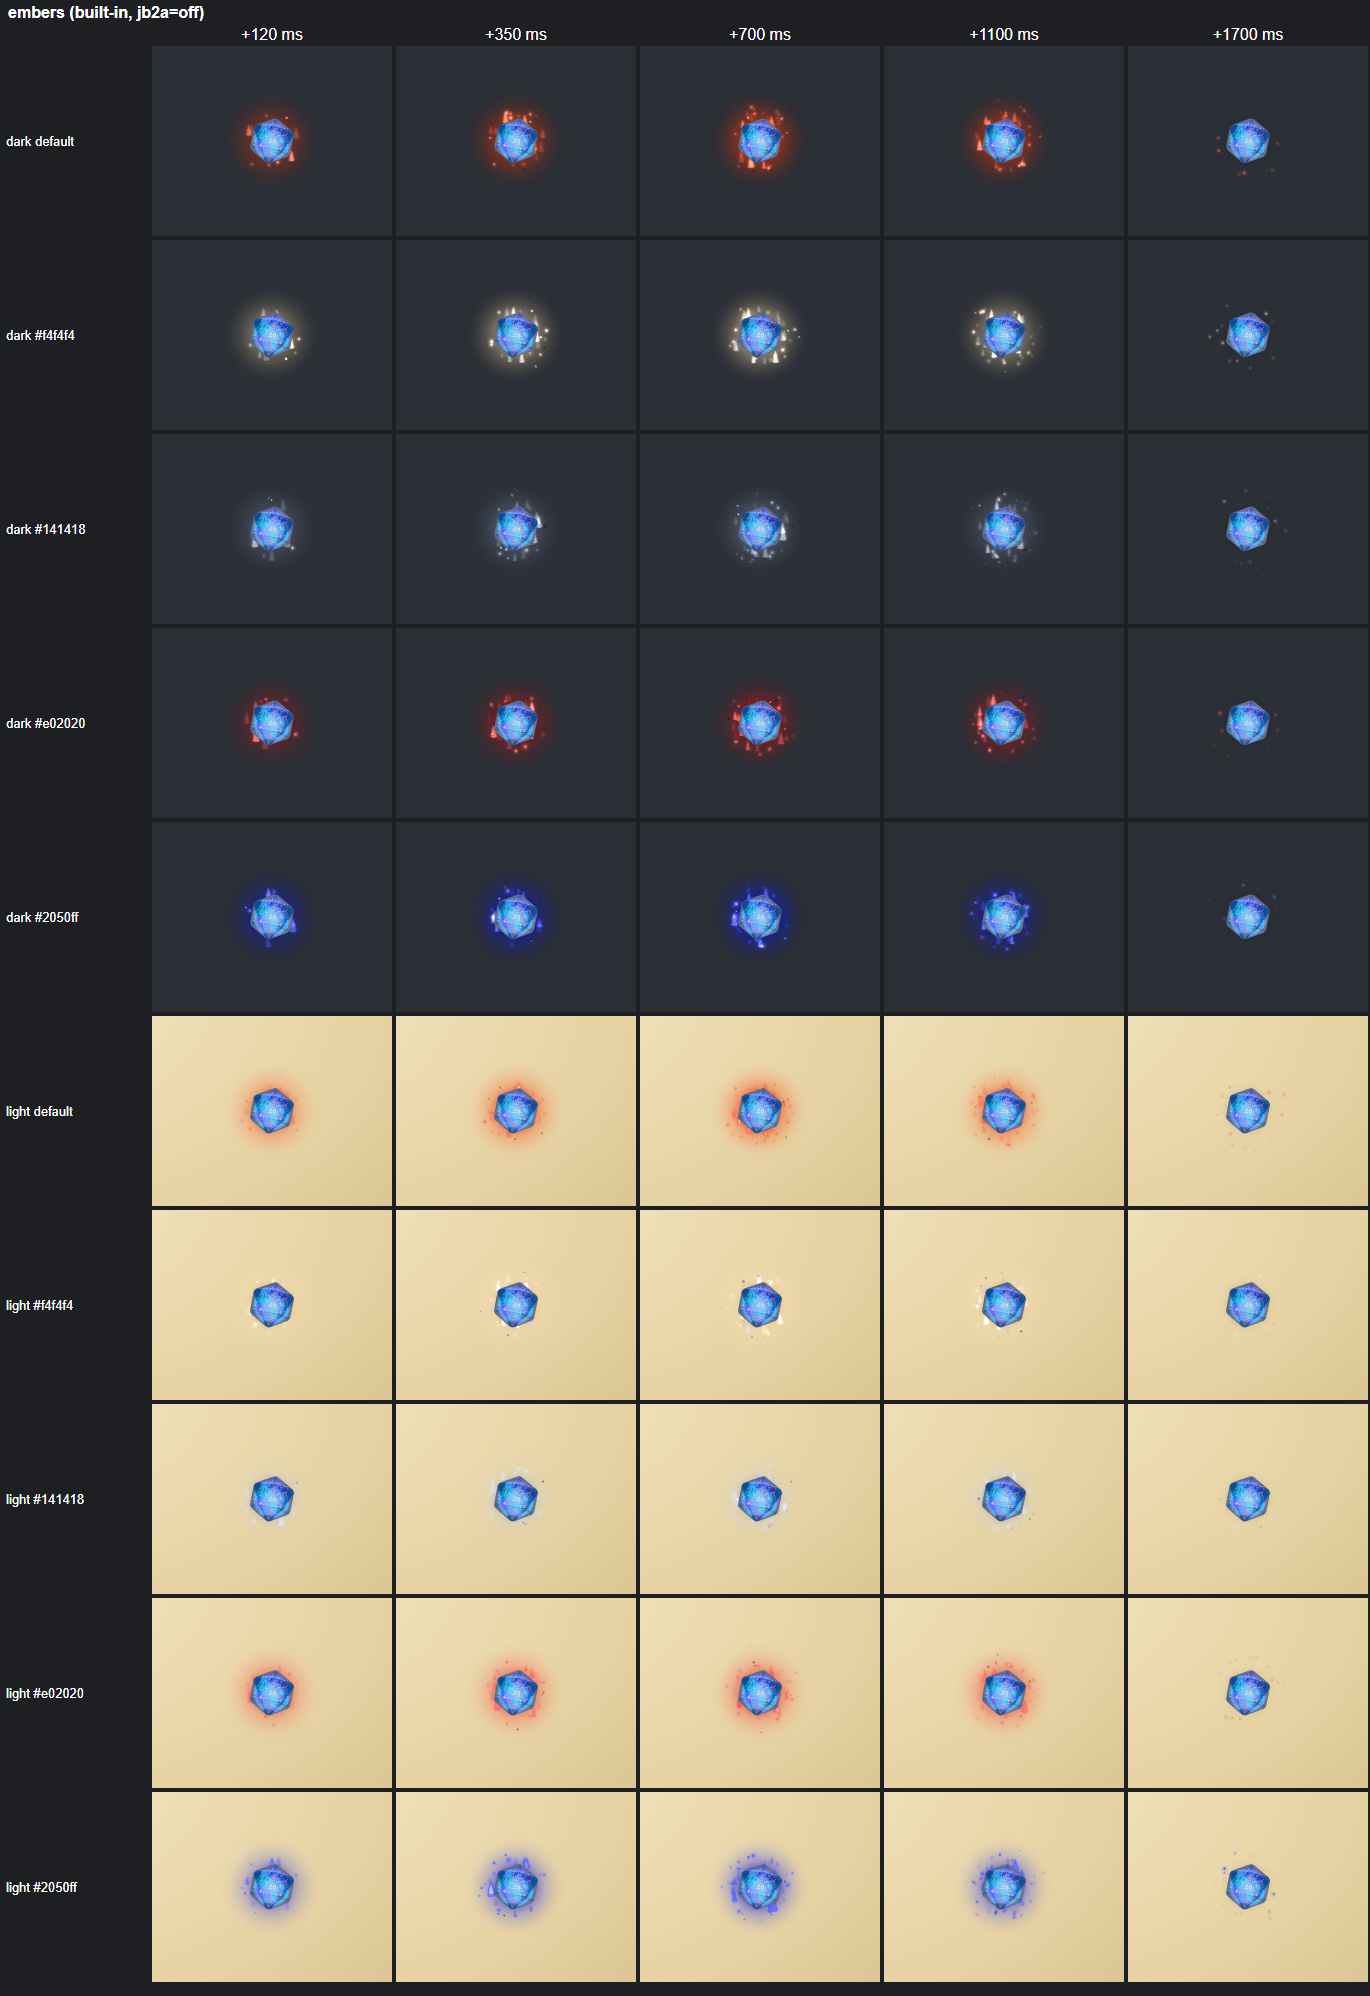
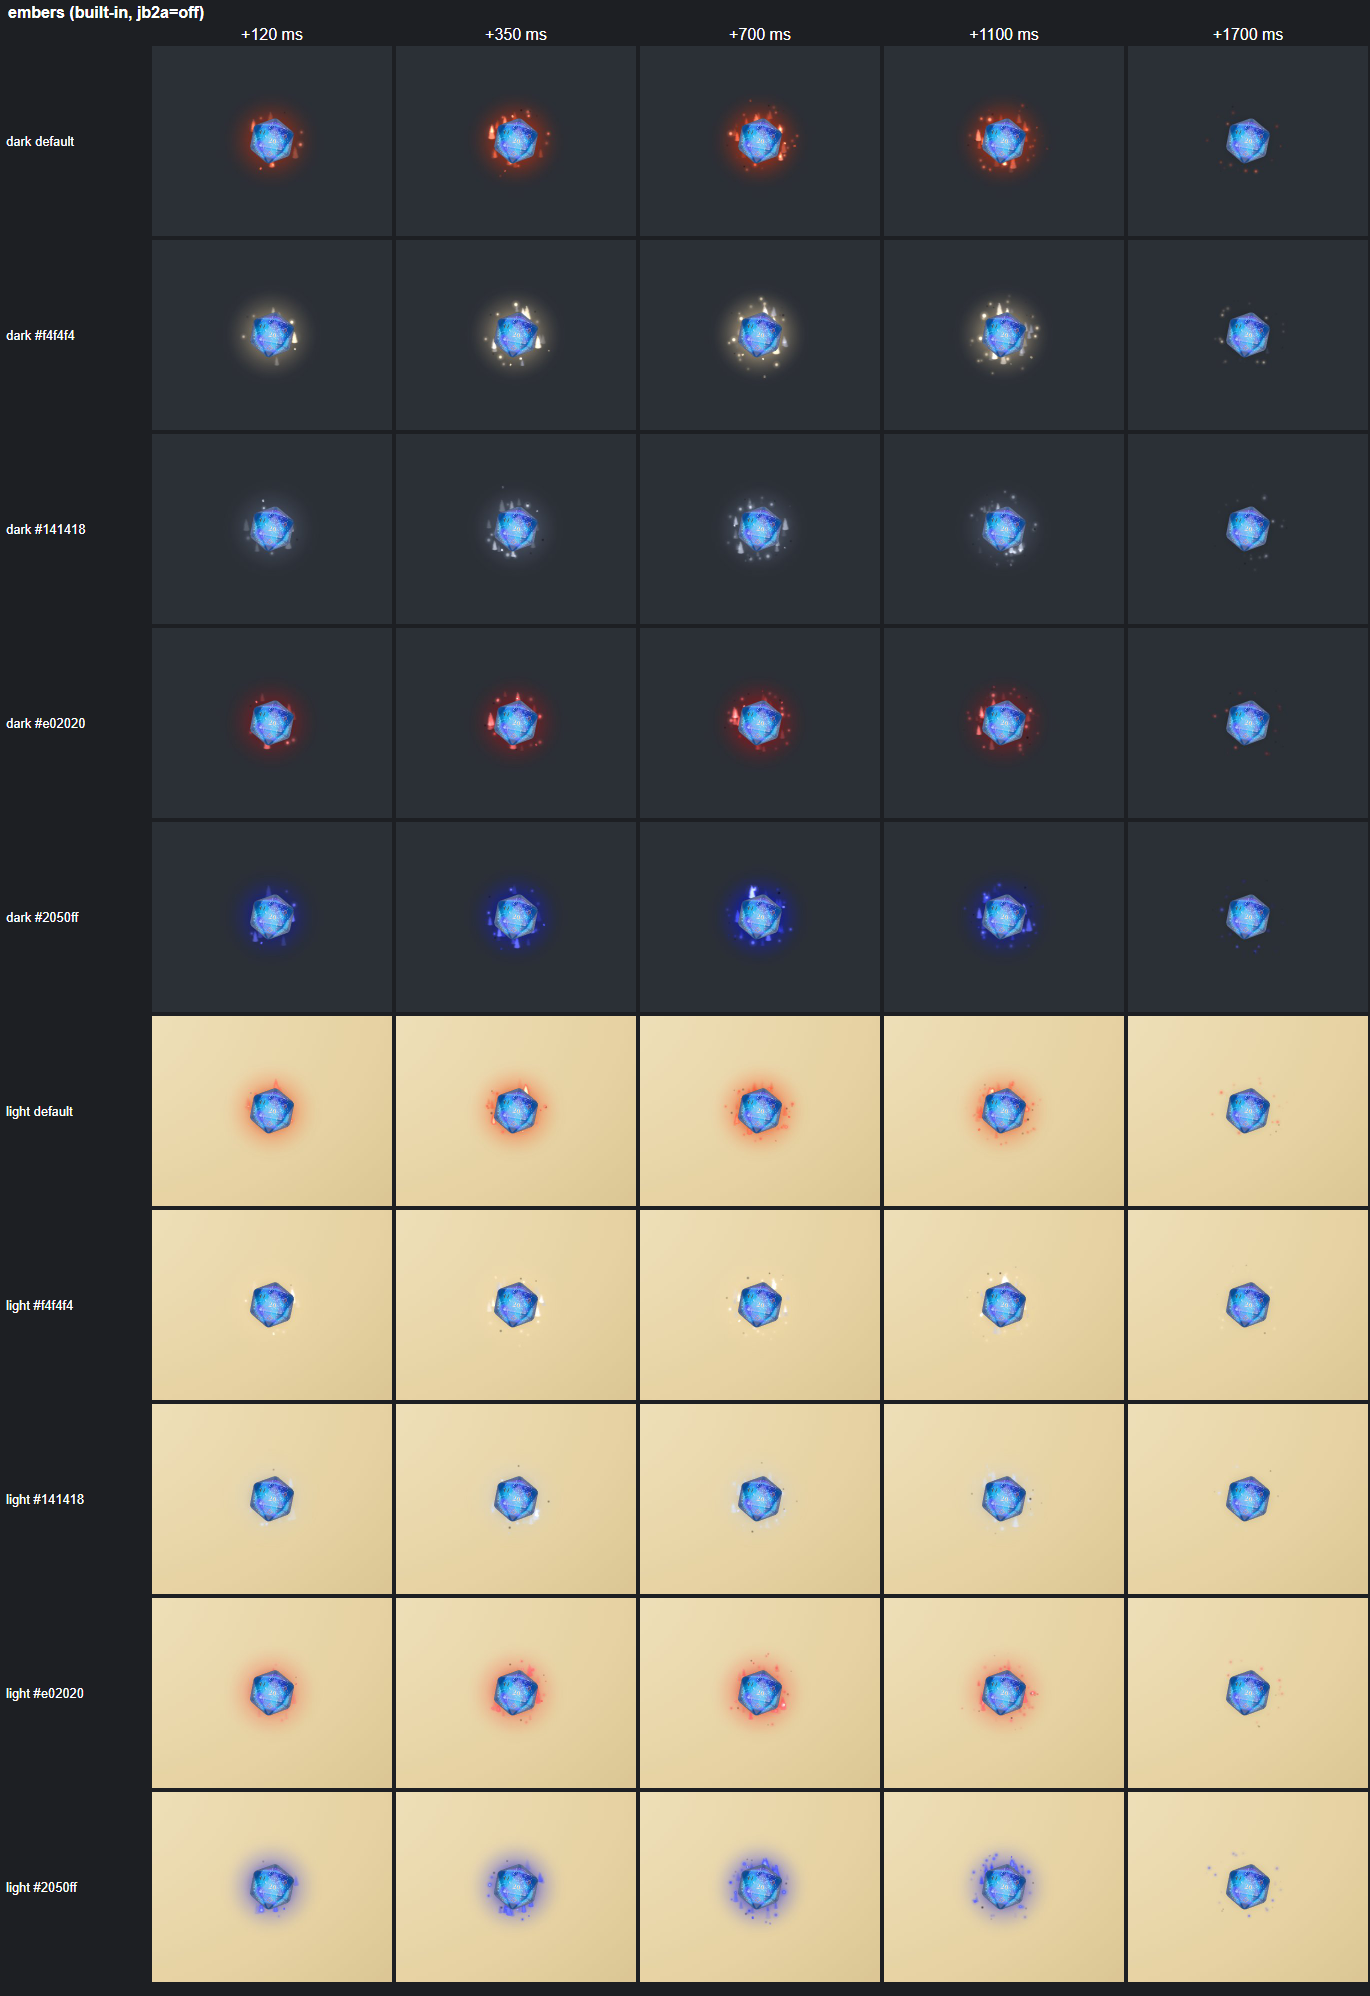
fix(fx): size sparkles and embers to the die; give sparkles presence
dieRadius(ctx) reads the die mesh's bounding sphere x world scale (0.95,
a d20, when there is none). Embers' rings, cinders and floor glow and
sparkles' birth height and orbit scale with it, so a small die is hugged
and a big one is not covered.

Sparkles leads with a burst on the first frame, has more glints living
longer, and larger deep-shade flecks for light maps. spiral and
ringTrickle share one oneByOne emitter; the EMBER sway gate is commented.

diff --git a/src/effects/library/catalogue.js b/src/effects/library/catalogue.js
@@ -21,9 +21,6 @@ const DIE_Y = 0.5; // a landed die's centre
 // Just above a landed die's top face. The camera looks straight down, so particles born lower
 // stay hidden under the (opaque) die until they have flown out past its footprint.
 const DIE_TOP = 1.05;
-// A landed d20 (the crit die; edge 1, so about 1.9 across): seen from above, anything within
-// D20_R of its centre is under it.
-const D20_R = 0.95;
 const clamp01 = (v) => Math.min(1, Math.max(0, v));
 const easeOut = (t) => 1 - (1 - t) * (1 - t);
 
@@ -326,6 +323,36 @@ function ringUniforms(color, { edge = 0.018, noise = 0.6, trail = 0.5, band = 1 
   };
 }
 
+// A die's bounding radius when its mesh is unknown (tests, headless): a landed d20 (edge 1, the
+// usual crit die, about 1.9 across).
+const DEFAULT_DIE_R = 0.95;
+const dieScale = new THREE.Vector3(); // reused: dieRadius allocates nothing
+
+/**
+ * The die's bounding-sphere radius in world units (its mesh's geometry radius x its largest world
+ * scale): seen from above, anything closer to its centre than this may be under it. Reads
+ * ctx.die.inner (the rotated die mesh), else the first mesh under ctx.die.outer; falls back to
+ * DEFAULT_DIE_R when there is none.
+ */
+function dieRadius(ctx) {
+  const die = ctx.die;
+  let mesh = die?.inner?.isMesh ? die.inner : null;
+  if (!mesh) {
+    die?.outer?.traverse?.((o) => {
+      if (!mesh && o.isMesh && o.geometry) mesh = o;
+    });
+  }
+  const geometry = mesh?.geometry;
+  if (!geometry) return DEFAULT_DIE_R;
+  if (!geometry.boundingSphere) geometry.computeBoundingSphere?.();
+  const r = geometry.boundingSphere?.radius;
+  if (!(r > 0)) return DEFAULT_DIE_R;
+  mesh.updateWorldMatrix?.(true, false);
+  mesh.getWorldScale(dieScale);
+  const R = r * Math.max(Math.abs(dieScale.x), Math.abs(dieScale.y), Math.abs(dieScale.z));
+  return Number.isFinite(R) && R > 0 ? R : DEFAULT_DIE_R;
+}
+
 /**
  * An additive radial glow decal on the table: colour ctx.color, brightness peak x intensity,
  * eased in over 60 ms, then shaped by `curve(elapsed)` (0..1; default: a quadratic fade-out over
@@ -524,42 +551,62 @@ export const shockwave = Object.freeze({
   },
 });
 
+/**
+ * Emits `total` particles over the first `window` (0..1) of the duration, one emit each:
+ * `lead` (0..1) of them at once on the first update, the rest evenly after. `one(now)` emits one.
+ */
+function oneByOne(ctx, total, window, one, lead = 0) {
+  let emitted = 0;
+  return (e, now) => {
+    if (!ctx.particles) return;
+    const share = lead + (1 - lead) * clamp01(e / Math.max(1, ctx.duration * window));
+    const want = Math.round(total * share);
+    for (; emitted < want; emitted++) one(now);
+  };
+}
+
 export const sparkles = Object.freeze({
   id: 'sparkles',
   cost: 2,
   defaults: Object.freeze({ color: '#ffe27a', intensity: 1, duration: 1400 }),
   /**
-   * Haloed four-point glints (the SPARK sprite) bursting out of the die's sides and spiralling up around
-   * it (KIND.SPIRAL turns each one about the die's axis; a strong drag holds them in an orbit just
-   * outside the die while buoyancy lifts them), twinkling as they burn out from the die colour
-   * through palette().core to white (core is the colour 60% of the way to white, so a straight
-   * colour -> white fade passes through it). A few deep-shade glints (normal blend) ride along so
-   * the effect reads on a light map. All are born inside the die, so its face stays clear.
+   * Haloed four-point glints (the SPARK sprite) bursting out of the die's sides and spiralling up
+   * around it (KIND.SPIRAL turns each one about the die's axis; a strong drag holds them in an
+   * orbit ~1.4 die radii out while buoyancy lifts them), twinkling as they burn out from the die
+   * colour through palette().core to white (core is the colour 60% of the way to white, so a
+   * straight colour -> white fade passes through it). A burst of them leads on the first frame,
+   * the rest follow over most of the duration. Deep-shade glints (normal blend) ride along so the
+   * effect reads on a light map. All are born inside the die, so its face stays clear.
    */
   start(ctx) {
     if (!ctx.particles) return NOOP;
     const k = sizeK(ctx);
+    const R = dieRadius(ctx);
     const pal = palette(ctx.color);
     const body = pal.rim ?? pal.mid; // the die colour, or a near-black die's lit rim
     // A deep shade for a light map (x 0.1 in linear light: about a third of the colour in sRGB).
     const cinder = pal.rim ? pal.core.clone() : body.clone().multiplyScalar(0.1);
     const { x: cx, z: cz } = ctx.position;
-    // Born inside the die: each one shows as it bursts out past the die's side, never over its face.
-    const BORN = DIE_Y + 0.4;
-    const spiral = (total, window, { y, ...spec }) => {
-      let emitted = 0;
-      return (e, now) => {
-        const want = Math.round(total * clamp01(e / Math.max(1, ctx.duration * window)));
-        for (; emitted < want; emitted++) {
+    // Born inside the die (a little above its centre): each one shows as it bursts out past the
+    // die's side, never over its face.
+    const y = (ctx.position.y || DIE_Y) + 0.3 * R;
+    // speed / drag is the orbit radius: ~1.4 R (1..1.8 R), cleared within ~100 ms.
+    const speed = 17 * R;
+    const spiral = (total, window, lead, spec) =>
+      oneByOne(
+        ctx,
+        total,
+        window,
+        (now) => {
           const a = Math.random() * Math.PI * 2;
           ctx.particles.emit({
             count: 1,
             origin: { x: cx, y, z: cz },
             dir: { x: Math.cos(a), y: 0.35, z: Math.sin(a) },
             spread: 0.3,
-            speed: 11,
-            drag: 8, // the orbit settles ~1.4 out (1..1.8), past a d20's footprint within ~150 ms
-            gravity: 1.3, // and keeps rising
+            speed,
+            drag: 12,
+            gravity: 1.1, // and keeps rising
             kind: KIND.SPIRAL,
             shape: SHAPE.GLINT,
             colorEnd: WHITE,
@@ -567,17 +614,16 @@ export const sparkles = Object.freeze({
             now,
             ...spec,
           });
-        }
-      };
-    };
-    const glints = spiral(countFor(48, ctx), 0.6, { y: BORN, life: 1.1, color: body, size: 0.32 * k, halo: 0.45 });
-    const big = spiral(countFor(12, ctx), 0.5, { y: BORN, life: 1.2, color: body, size: 0.5 * k, halo: 0.55 });
-    const flecks = spiral(countFor(18, ctx), 0.6, {
-      y: BORN,
-      life: 1.0,
+        },
+        lead,
+      );
+    const glints = spiral(countFor(60, ctx), 0.7, 0.2, { life: 1.5, color: body, size: 0.32 * k, halo: 0.45 });
+    const big = spiral(countFor(16, ctx), 0.6, 0.25, { life: 1.6, color: body, size: 0.55 * k, halo: 0.55 });
+    const flecks = spiral(countFor(22, ctx), 0.7, 0.2, {
+      life: 1.4,
       color: cinder,
       colorEnd: cinder,
-      size: 0.3 * k,
+      size: 0.45 * k,
       blend: 'normal',
       alpha: 0.9,
     });
@@ -594,30 +640,23 @@ export const sparkles = Object.freeze({
 });
 
 /**
- * Emits `total` particles evenly over the first `window` (0..1) of the duration, each its own
- * emit born at a random point of the annulus rMin..rMax around the die at height y, its direction
- * up and tilted outward by `out` (0: straight up). Nothing is born over the die's top face.
+ * Like trickle(), one emit per particle, each born at a random point of the annulus rMin..rMax
+ * around the die at height y, its direction up and tilted outward by `out` (0: straight up).
  */
 function ringTrickle(ctx, total, window, { rMin, rMax, y, out = 0, ...spec }) {
-  let emitted = 0;
-  return (e, now) => {
-    const pool = ctx.particles;
-    if (!pool) return;
-    const want = Math.round(total * clamp01(e / Math.max(1, ctx.duration * window)));
-    for (; emitted < want; emitted++) {
-      const a = Math.random() * Math.PI * 2;
-      const r = rMin + (rMax - rMin) * Math.random();
-      const ux = Math.cos(a);
-      const uz = Math.sin(a);
-      pool.emit({
-        ...spec,
-        count: 1,
-        origin: { x: ctx.position.x + ux * r, y, z: ctx.position.z + uz * r },
-        dir: { x: ux * out, y: 1, z: uz * out },
-        now,
-      });
-    }
-  };
+  return oneByOne(ctx, total, window, (now) => {
+    const a = Math.random() * Math.PI * 2;
+    const r = rMin + (rMax - rMin) * Math.random();
+    const ux = Math.cos(a);
+    const uz = Math.sin(a);
+    ctx.particles.emit({
+      ...spec,
+      count: 1,
+      origin: { x: ctx.position.x + ux * r, y, z: ctx.position.z + uz * r },
+      dir: { x: ux * out, y: 1, z: uz * out },
+      now,
+    });
+  });
 }
 
 export const embers = Object.freeze({
@@ -628,20 +667,21 @@ export const embers = Object.freeze({
    * A fire around the die's foot: flickering FLAME tongues lick up from the base, glowing embers
    * (haloed, buoyant: the pool sways them side to side) drift up and out, a few quick sparks shoot
    * up, and dark cinders (normal blend) rise with them so it reads on a light map. Over a held,
-   * flickering floor glow. Every particle is born on a ring around the die (radius >= 0.8, about
-   * a d20's footprint): seen from above, nothing sits over its top face, so the die stays readable.
+   * flickering floor glow. Every particle is born on a ring around the die at 0.85 die radii or
+   * more (dieRadius): seen from above, nothing sits over its top face, so the die stays readable.
    */
   start(ctx) {
     if (!ctx.particles) return NOOP;
     const k = sizeK(ctx);
+    const R = dieRadius(ctx);
     const pal = palette(ctx.color);
     const body = pal.rim ?? pal.mid; // the die colour, or a near-black die's lit rim
     const hot = body.clone().lerp(new THREE.Color(WHITE), 0.5);
     const deep = pal.rim ? pal.rim.clone().multiplyScalar(0.5) : pal.edge.clone();
     const cinder = pal.rim ? pal.core.clone() : body.clone().multiplyScalar(0.1); // reads on a light map
     const flames = ringTrickle(ctx, countFor(30, ctx), 0.75, {
-      rMin: D20_R - 0.15, // the tongues peek out around the die
-      rMax: D20_R + 0.15,
+      rMin: 0.85 * R, // the tongues peek out around the die
+      rMax: 1.15 * R,
       y: 0.12,
       out: 0.35,
       speed: 0.9,
@@ -657,8 +697,8 @@ export const embers = Object.freeze({
       halo: 0.25, // a big sprite: a slim halo keeps its fill cost down
     });
     const motes = ringTrickle(ctx, countFor(22, ctx), 0.85, {
-      rMin: D20_R - 0.05,
-      rMax: D20_R + 0.3,
+      rMin: 0.95 * R,
+      rMax: 1.3 * R,
       y: 0.5,
       out: 0.6,
       speed: 0.9,
@@ -675,8 +715,8 @@ export const embers = Object.freeze({
     });
     // Six quick sparks shooting up (at intensity 1, full particle scale).
     const streaks = ringTrickle(ctx, countFor(6, ctx), 0.6, {
-      rMin: D20_R - 0.05,
-      rMax: D20_R + 0.1,
+      rMin: 0.95 * R,
+      rMax: 1.1 * R,
       y: 0.4,
       out: 0.5,
       speed: 3.2,
@@ -689,9 +729,11 @@ export const embers = Object.freeze({
       kind: KIND.STREAK,
       shape: SHAPE.STREAK,
     });
+    // Dark (normal-blend) cinders are never born within 0.5 of the centre, even round a tiny die.
+    const cinderIn = Math.max(0.5, 1.05 * R);
     const cinders = ringTrickle(ctx, countFor(8, ctx), 0.8, {
-      rMin: D20_R + 0.05,
-      rMax: D20_R + 0.35,
+      rMin: cinderIn,
+      rMax: cinderIn + 0.3 * R,
       y: 0.3,
       out: 0.6,
       speed: 0.9,
@@ -709,7 +751,7 @@ export const embers = Object.freeze({
     const ms = ctx.duration;
     // (Object.create: a near-black die's glow is its lit rim; a composite ctx keeps fields on its prototype.)
     const glow = floorGlow(Object.create(ctx, { color: { value: body } }), {
-      radius: 2.4,
+      radius: 2.5 * R,
       peak: 0.9,
       ms,
       // Held for the duration (eased in and out), flickering like a fire.

diff --git a/tests/unit/catalogue.test.js b/tests/unit/catalogue.test.js
@@ -466,6 +466,53 @@ describe('rebuilt looks', () => {
     }
   });
 
+  test('embers and sparkles follow the die size: births clear of a small and a large die', () => {
+    const dieOf = (s) => {
+      const die = makeDie();
+      die.outer.scale.setScalar(s);
+      return die;
+    };
+    const radius = (s) => (Math.sqrt(3) / 2) * s; // the unit box's bounding sphere, scaled
+    const ringOf = (id, s) => {
+      const { ctx, specs, h } = run(id, { die: dieOf(s) }, 1600);
+      h.stop();
+      return specs.map((x) => Math.hypot(x.origin.x - ctx.position.x, x.origin.z - ctx.position.z));
+    };
+    const near = {};
+    for (const s of [0.5, 2.5]) {
+      const R = radius(s);
+      const d = ringOf('embers', s);
+      expect(d.length).toBeGreaterThan(0);
+      for (const v of d) expect(v, `embers, die radius ${R}`).toBeGreaterThanOrEqual(0.8 * R);
+      near[s] = Math.min(...d);
+      // Hugs the die: the nearest births sit within 1.2 radii of a small die too.
+      expect(near[s], `embers hugs a die of radius ${R}`).toBeLessThanOrEqual(1.2 * R);
+    }
+    expect(near[2.5]).toBeGreaterThan(near[0.5]);
+    // Sparkles' orbit (speed / drag) scales with the radius too.
+    const orbit = (s) => {
+      const { specs, h } = run('sparkles', { die: dieOf(s) }, 1400);
+      h.stop();
+      const lit = specs.filter((x) => x.blend !== 'normal');
+      return lit[0].speed / lit[0].drag;
+    };
+    expect(orbit(2.5) / orbit(0.5)).toBeCloseTo(5, 5);
+    expect(orbit(2.5)).toBeGreaterThan(radius(2.5)); // the orbit clears the die
+  });
+
+  test('sparkles lead with a burst on the first frame', () => {
+    const ctx = ctxFor(EFFECTS.sparkles);
+    const emit = vi.spyOn(ctx.particles, 'emit');
+    const h = EFFECTS.sparkles.start(ctx);
+    h.update(1000);
+    const first = emit.mock.calls.reduce((n, [s]) => n + s.count, 0);
+    for (let t = 1000; t <= 1000 + ctx.duration; t += 20) h.update(t);
+    const total = emit.mock.calls.reduce((n, [s]) => n + s.count, 0);
+    expect(first).toBeGreaterThanOrEqual(0.15 * total);
+    expect(emit.mock.calls.every(([s]) => s.now >= 1000)).toBe(true);
+    h.stop();
+  });
+
   test('embers keeps six streak sparks at intensity 1 on high', () => {
     const { specs, h } = run('embers', { tier: 'high' }, 1600);
     expect(specs.filter((s) => s.kind === KIND.STREAK).reduce((n, s) => n + s.count, 0)).toBe(6);

diff --git a/src/effects/library/particles.js b/src/effects/library/particles.js
@@ -116,7 +116,9 @@ vec3 travel( float t, int kind ) {
 	}
 	vec3 p = aOrigin + disp;
 	if ( kind == 1 && aGravity > 0.0 ) {
-		// A buoyant ember sways gently side to side as it rises, easing in over its first second.
+		// A buoyant ember (EMBER with gravity > 0: embers' rising motes and flames) sways gently side
+		// to side as it rises, easing in over its first second. Falling embers (fizzle's, gravity < 0)
+		// keep their clean arcs.
 		float sway = 0.14 * min( t, 1.0 );
 		p.x += sway * sin( t * 3.1 + aSeed * 6.2831853 );
 		p.z += sway * sin( t * 2.3 + aSeed * 12.566371 + 1.3 );
